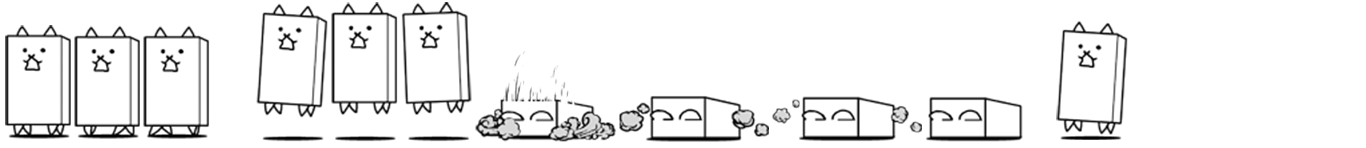
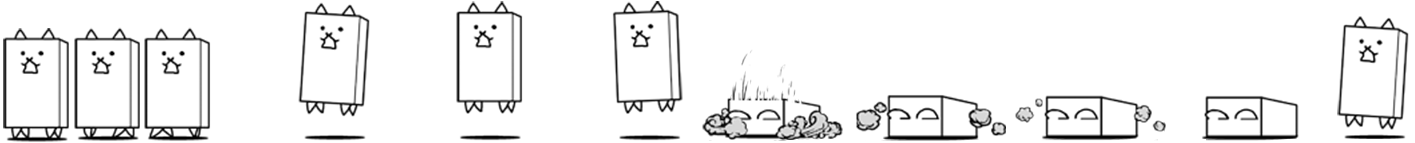
fix wall image

Changed region(s): [[0.1845, 0.0, 1.0, 1.0], [0.0, 0.1678, 0.1537, 1.0], [0.9531, 0.9231, 1.0, 0.979]]

diff --git a/src/App.js b/src/App.js
@@ -1,20 +1,20 @@
 import React, { useState } from 'react';
 import './App.css';
 
-const timerInterval = 350; 
-const speedFactor = .4;	
+const timerInterval = 300; 
+const speedFactor = .5;	
 const screenWidth = 320;
 const initialX = 25;
 const initialHealth = 100; // basic cat initial health (physical fitness) can grow to 4200, offensive power 335 with level, treasures, etc.
 const initialBaseHealth = 5000;
 
-const baseFactor = 2;
+const baseFactor = 1.8;
 const baseWidth = baseFactor * 40;
 const baseHeight = baseFactor * 80;
 const baseBottom = 1;
 const baseX = 2;
 
-const buttonWidth = 40;
+const buttonWidth = 32;
 const buttonH = buttonWidth;
 
 const attackTypes = {
@@ -23,7 +23,7 @@ const attackTypes = {
 }
 function CatBase(props) {
 	const style = {
-		width:baseWidth,height:baseHeight, right:baseX, bottom: baseBottom,
+		width:baseWidth, height:baseHeight, right:baseX, bottom: baseBottom,
 		backgroundImage:"url('catBase.png')"
 	}
 	return <div className="CatBase" style={style}>{props.children}<HealthBar health={props.health} maxHealth={props.initialHealth}/></div>
@@ -42,8 +42,7 @@ function HealthBar({health, maxHealth, label}) {
 	const borderLeftWidth = fractionHealth*width;
 	const borderRightWidth = width - borderLeftWidth;
 	const colorLeft = 'grey';
-	const colorRight = 'red';
-//	const colorRight = fractionHealth > .25 ? 'yellow' : 'red';
+	const colorRight = fractionHealth > .25 ? 'orange' : 'red';
 	const styleHealthBar = {
 			position:"absolute", top: -height, right:0,
 			backgroundColor: colorLeft,
@@ -132,7 +131,7 @@ function CatButton(props) {
 		width:buttonWidth,
 		height:buttonH,
 		float:"right",
-		border: 1, borderColor:"white", borderWidth: 1, borderStyle: 'solid',
+//		border: 1, borderColor:"white", borderWidth: 1, borderStyle: 'solid',
 		marginLeft: 1,
 		paddingBottom: 1,
 	}
@@ -200,35 +199,39 @@ function App() {
 //		{...aCat, type:"gold", width:50, height:58, attackWidth:60, hurtWidth:60, attackImageCount: 4, 
 //			imageToLogicalPxFactor: 0.5}, 
 		{...aCat, type:"B", width:53, height:101, attackWidth: 80, imageToLogicalPxFactor: 0.5,
-			attackType:attackTypes.areaAttack,  
+			attackType:attackTypes.areaAttack,  attackRange:8,  
 			attackPower:2, initialHealth:4*initialHealth, knockBacks:1,
 			speed:speedFactor*8, timeBetweenAttacks:2.23
 		},
-		{...aCat, type:"axe", width:53, height:63, attackWidth: 56, hurtWidth: 36,
-			imageToLogicalPxFactor: 0.7, 
-			attackPower:25, initialHealth:2*initialHealth, 
-			speed:speedFactor*12, timeBetweenAttacks:1,
+		{...aCat, type:"wall", width:71, height:143, attackWidth: 160, walkingImageCount: 3, attackImageCount: 7, hurtWidth:80, 
+			imageToLogicalPxFactor: 0.4,
+			attackType:attackTypes.areaAttack,  attackRange:8, 
+			attackPower:2, initialHealth:4*initialHealth, knockBacks:1,
+			speed:speedFactor*8, timeBetweenAttacks:2.23
+		},
+		{...aCat, type:"axe", width:53, height:63, attackWidth: 56, hurtWidth: 36, imageToLogicalPxFactor: 0.7, 
+			attackPower:25,  attackRange:3, initialHealth:2*initialHealth, speed:speedFactor*12, timeBetweenAttacks:1,
 		},// 106, 115, 75 x 126 
-//		{...aCat, type:"sword", speed:3, width:48, height:63, attackWidth: 69, hurtWidth: 42, imageToLogicalPxFactor: 0.7},
+		{...aCat, type:"sword", speed:speedFactor*12, width:48, height:63, attackWidth: 69, hurtWidth: 42, imageToLogicalPxFactor: 0.7},
 		{...aCat, type:"legs", width:90, height: 306, 
-		imageToLogicalPxFactor:0.4, walkingImageCount:5, attackWidth:250, 
-		initialHealth:4*initialHealth, attackPower:initialHealth, attackRange:3.5, 
-		speed:speedFactor*10, timeBetweenAttacks:4.6,  
+			imageToLogicalPxFactor:0.4, walkingImageCount:5, attackWidth:250, 
+			initialHealth:4*initialHealth, attackPower:initialHealth, attackRange:3.5, 
+			speed:speedFactor*10, timeBetweenAttacks:4.6,  
 		},
 		{...aCat, type:"cow", width:109, height: 120, 
-		imageToLogicalPxFactor:0.4, walkingImageCount:4, attackWidth:150, hurtWidth:156,
-		initialHealth:4*initialHealth, attackPower:initialHealth, attackRange:2, 
-		speed:speedFactor*30, timeBetweenAttacks:.3,  
+			imageToLogicalPxFactor:0.4, walkingImageCount:4, attackWidth:150, hurtWidth:156,
+			initialHealth:4*initialHealth, attackPower:initialHealth, attackRange:1.5, 
+			speed:speedFactor*30, timeBetweenAttacks:.3,  
 		},
 		{...aCat, type:"giraffe", width:100, height: 160, 
-		imageToLogicalPxFactor:0.4, walkingImageCount:4, attackImageCount:5, attackWidth:168, hurtWidth:262, 
-		initialHealth:4*initialHealth, attackPower:initialHealth, attackRange:3.5, 
-		speed:speedFactor*30, timeBetweenAttacks:.3,  
+			imageToLogicalPxFactor:0.4, walkingImageCount:4, attackImageCount:5, attackWidth:168, hurtWidth:262, 
+			initialHealth:4*initialHealth, attackPower:initialHealth, attackRange:3.5, 
+			speed:speedFactor*30, timeBetweenAttacks:.3,  
 		},
 		{...aCat, type:"dragon", width:114, height: 183, 
-		imageToLogicalPxFactor:0.4, walkingImageCount:4, attackImageCount:4, attackWidth:210, hurtWidth:120, 
-		initialHealth:4*initialHealth, attackPower:initialHealth, attackRange:22, 
-		speed:speedFactor*10, timeBetweenAttacks:2.3,  
+			imageToLogicalPxFactor:0.4, walkingImageCount:4, attackImageCount:4, attackWidth:210, hurtWidth:120, 
+			initialHealth:4*initialHealth, attackPower:initialHealth, attackRange:22, 
+			speed:speedFactor*10, timeBetweenAttacks:2.3,  
 		},
 	];
 	const initialPos = {
@@ -319,14 +322,14 @@ function App() {
 	// determine if the target would be within the unit's attack range after both move
 	function withinRange(unit, target)
 	{
-		return screenWidth - baseX - (unit.x + target.x + unit.imageToLogicalPxFactor*unit.width + target.imageToLogicalPxFactor*target.width) < unit.attackRange;
+		return screenWidth - baseX - (unit.x + target.x + unit.imageToLogicalPxFactor*unit.attackWidth + target.imageToLogicalPxFactor*target.attackWidth) < unit.attackRange;
 //		return screenWidth - baseX - (unit.x + target.x + unit.imageToLogicalPxFactor*unit.width + target.imageToLogicalPxFactor*target.width + unit.speed + target.speed) < unit.attackRange;
 //		return screenWidth - baseX - (unit.x + target.x + unit.imageToLogicalPxFactor*Math.max(unit.width, unit.attackWidth) + target.imageToLogicalPxFactor*Math.max(target.width, target.attackWidth) + unit.speed + target.speed) < unit.attackRange;
 	}
 	//check if the unit is close to opposite base
 	function canAttackBase(unit)
 	{
-		return screenWidth - baseX - baseWidth  - (unit.x + unit.imageToLogicalPxFactor*unit.width + unit.speed ) < unit.attackRange;
+		return screenWidth - baseX - baseWidth  - (unit.x + unit.imageToLogicalPxFactor*unit.attackWidth + unit.speed ) < unit.attackRange;
 	}
 	//check if the unit can damage opposite base
 	function canDamageBase(unit, time)
@@ -528,7 +531,7 @@ function App() {
 	const enemyButtons = enemyTypes.map((enemy, i)=><EnemyButton type={enemy} addEnemy={addEnemy} key={i}/>);
 	const catButtons = catTypes.map((cat, i)=><CatButton type={cat} addCat={addCat} key={i}/>);
 	const gameControls = <>
-		<div>Click buttons to send cats into the battle:</div>
+		<div>Click to send cats into the battle:</div>
 		<div className="dashboard">
 			{catButtons}
 		</div>

diff --git a/src/App.css b/src/App.css
@@ -7,7 +7,7 @@
 .dashboard{
 	border: 1px dotted grey;
 	width:320px;
-	height:55px;
+	height:40px;
 	margin:auto;
 	background: lightgrey;
 }
@@ -54,17 +54,6 @@
 	text-align: center;
   }
 
-.App-logo {
-  height: 40vmin;
-  pointer-events: none;
-}
-
-@media (prefers-reduced-motion: no-preference) {
-  .App-logo {
-    animation: App-logo-spin infinite 20s linear;
-  }
-}
-
 .App-header {
   background-color: #282c34;
   min-height: 10vh;
@@ -74,17 +63,4 @@
   justify-content: center;
   font-size: calc(10px + 2vmin);
   color: white;
-}
-
-.App-link {
-  color: #61dafb;
-}
-
-@keyframes App-logo-spin {
-  from {
-    transform: rotate(0deg);
-  }
-  to {
-    transform: rotate(360deg);
-  }
 }
